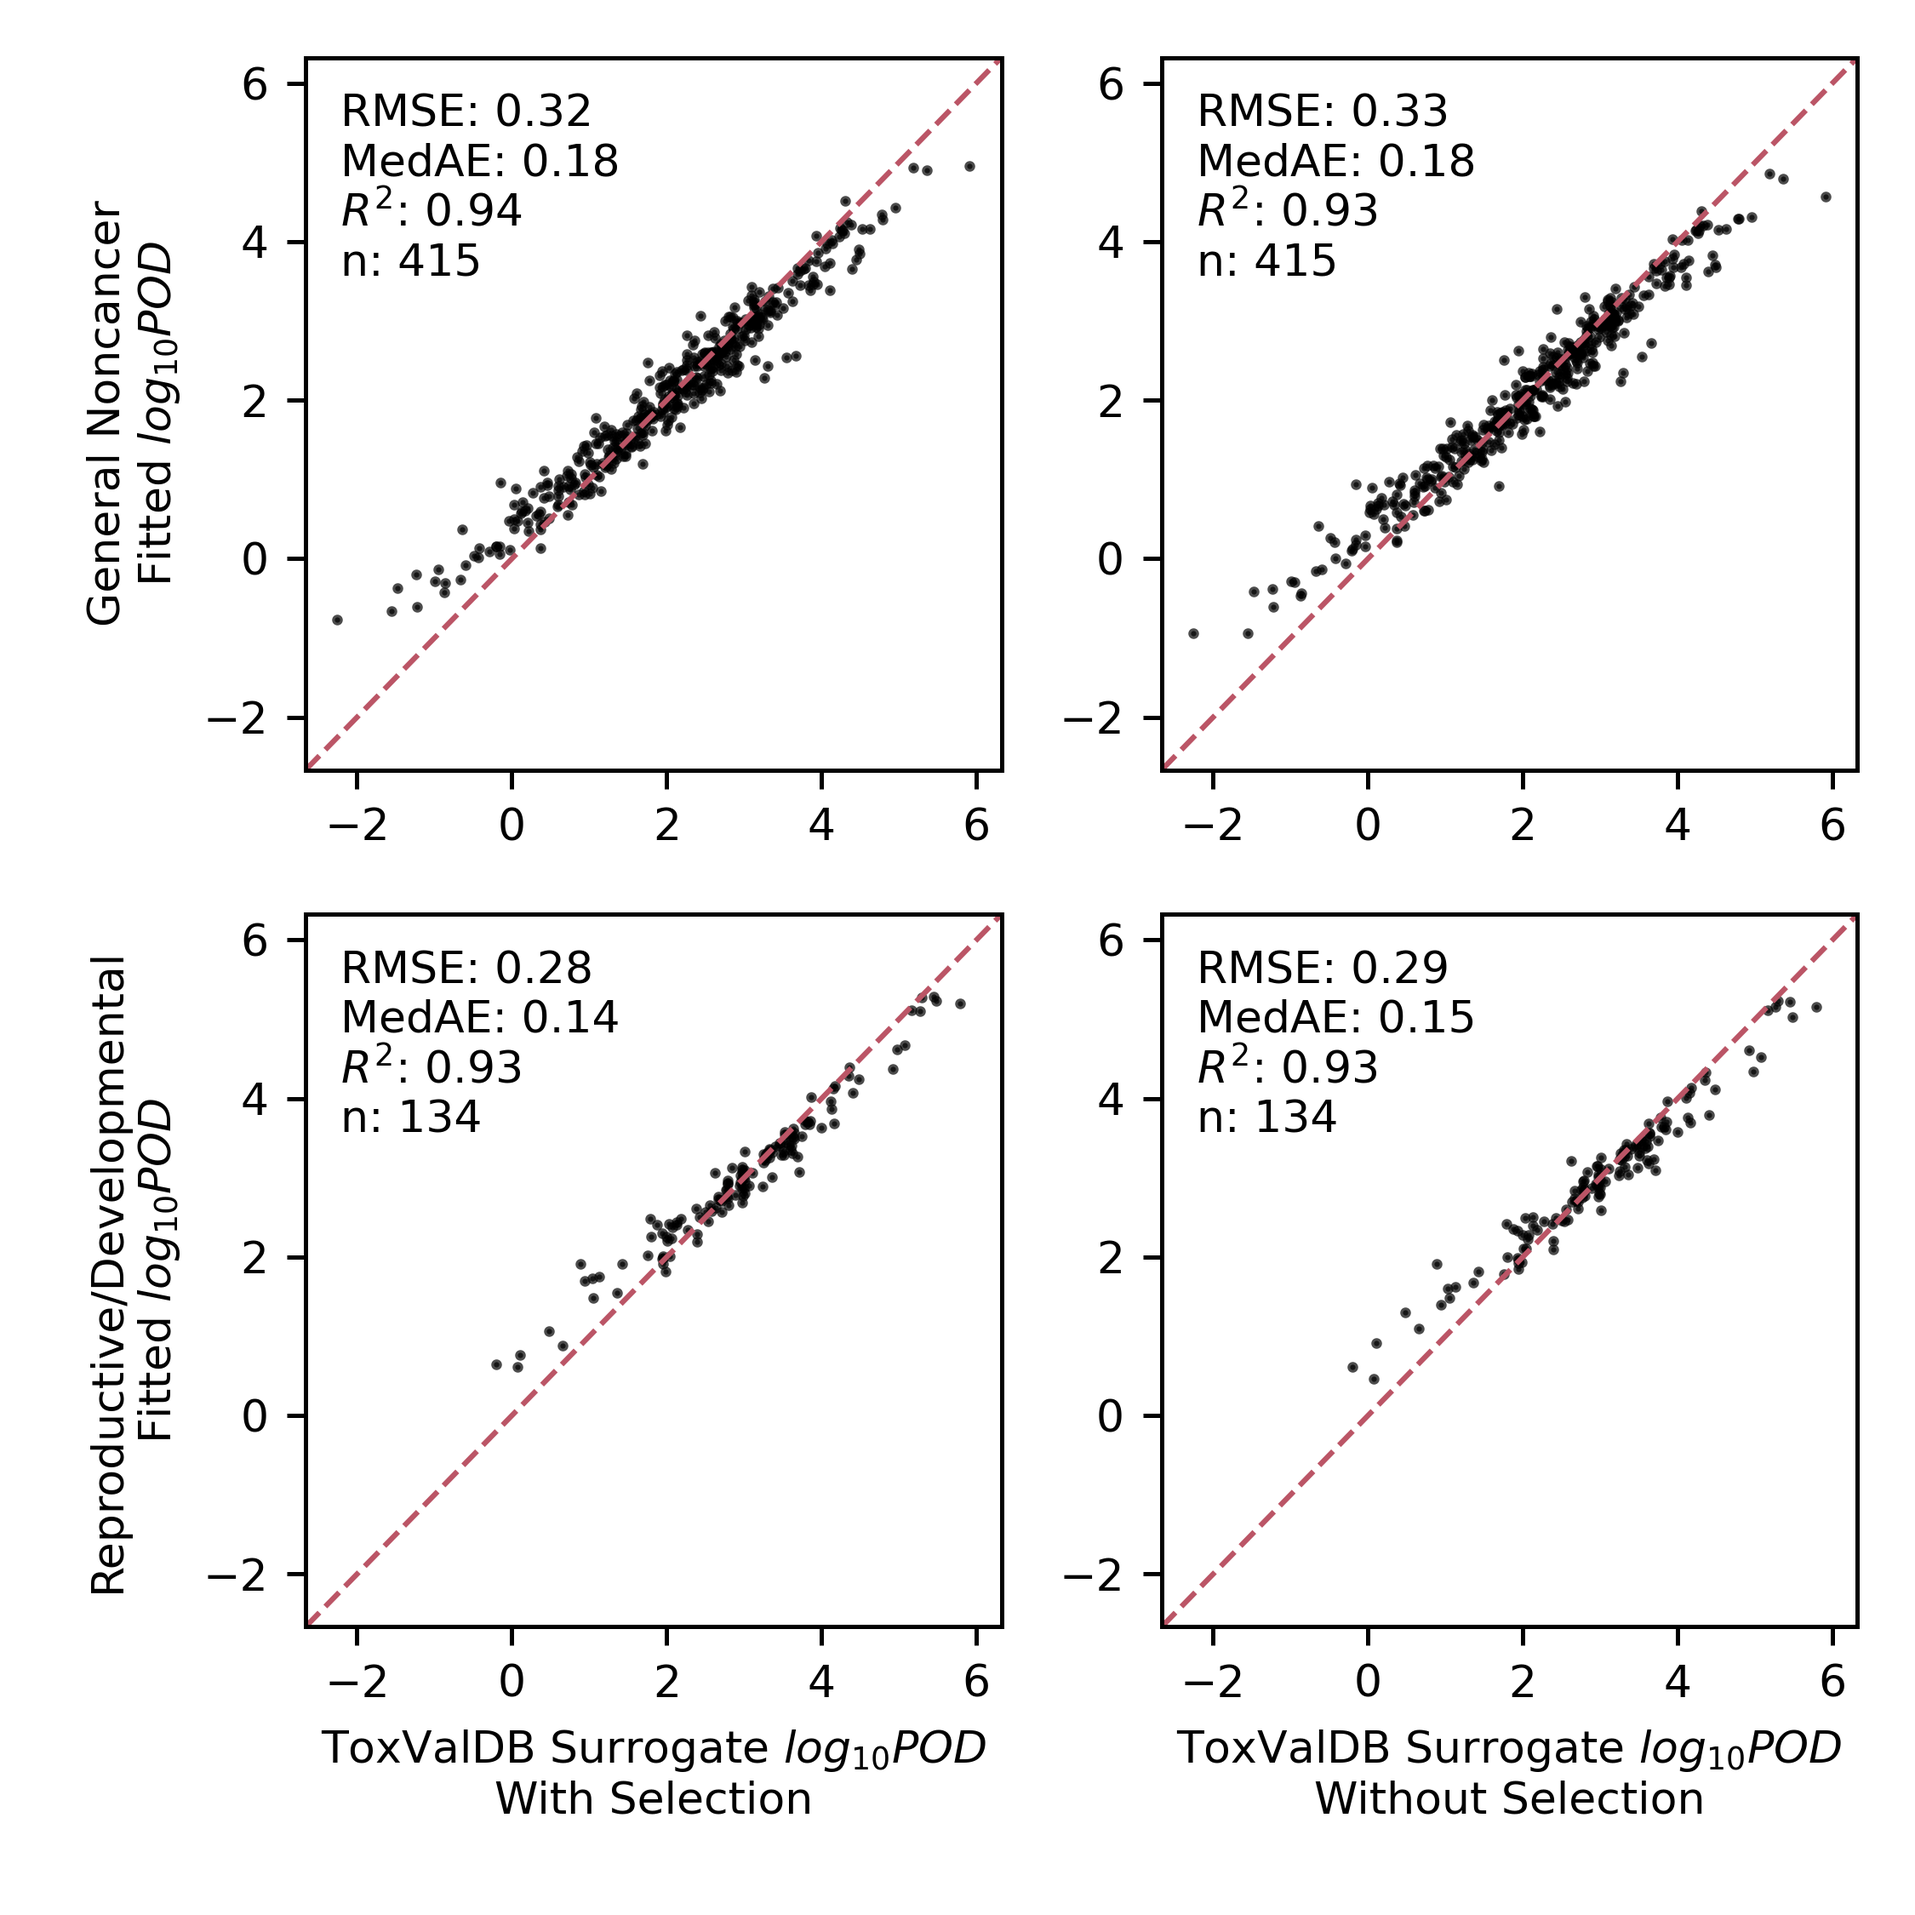
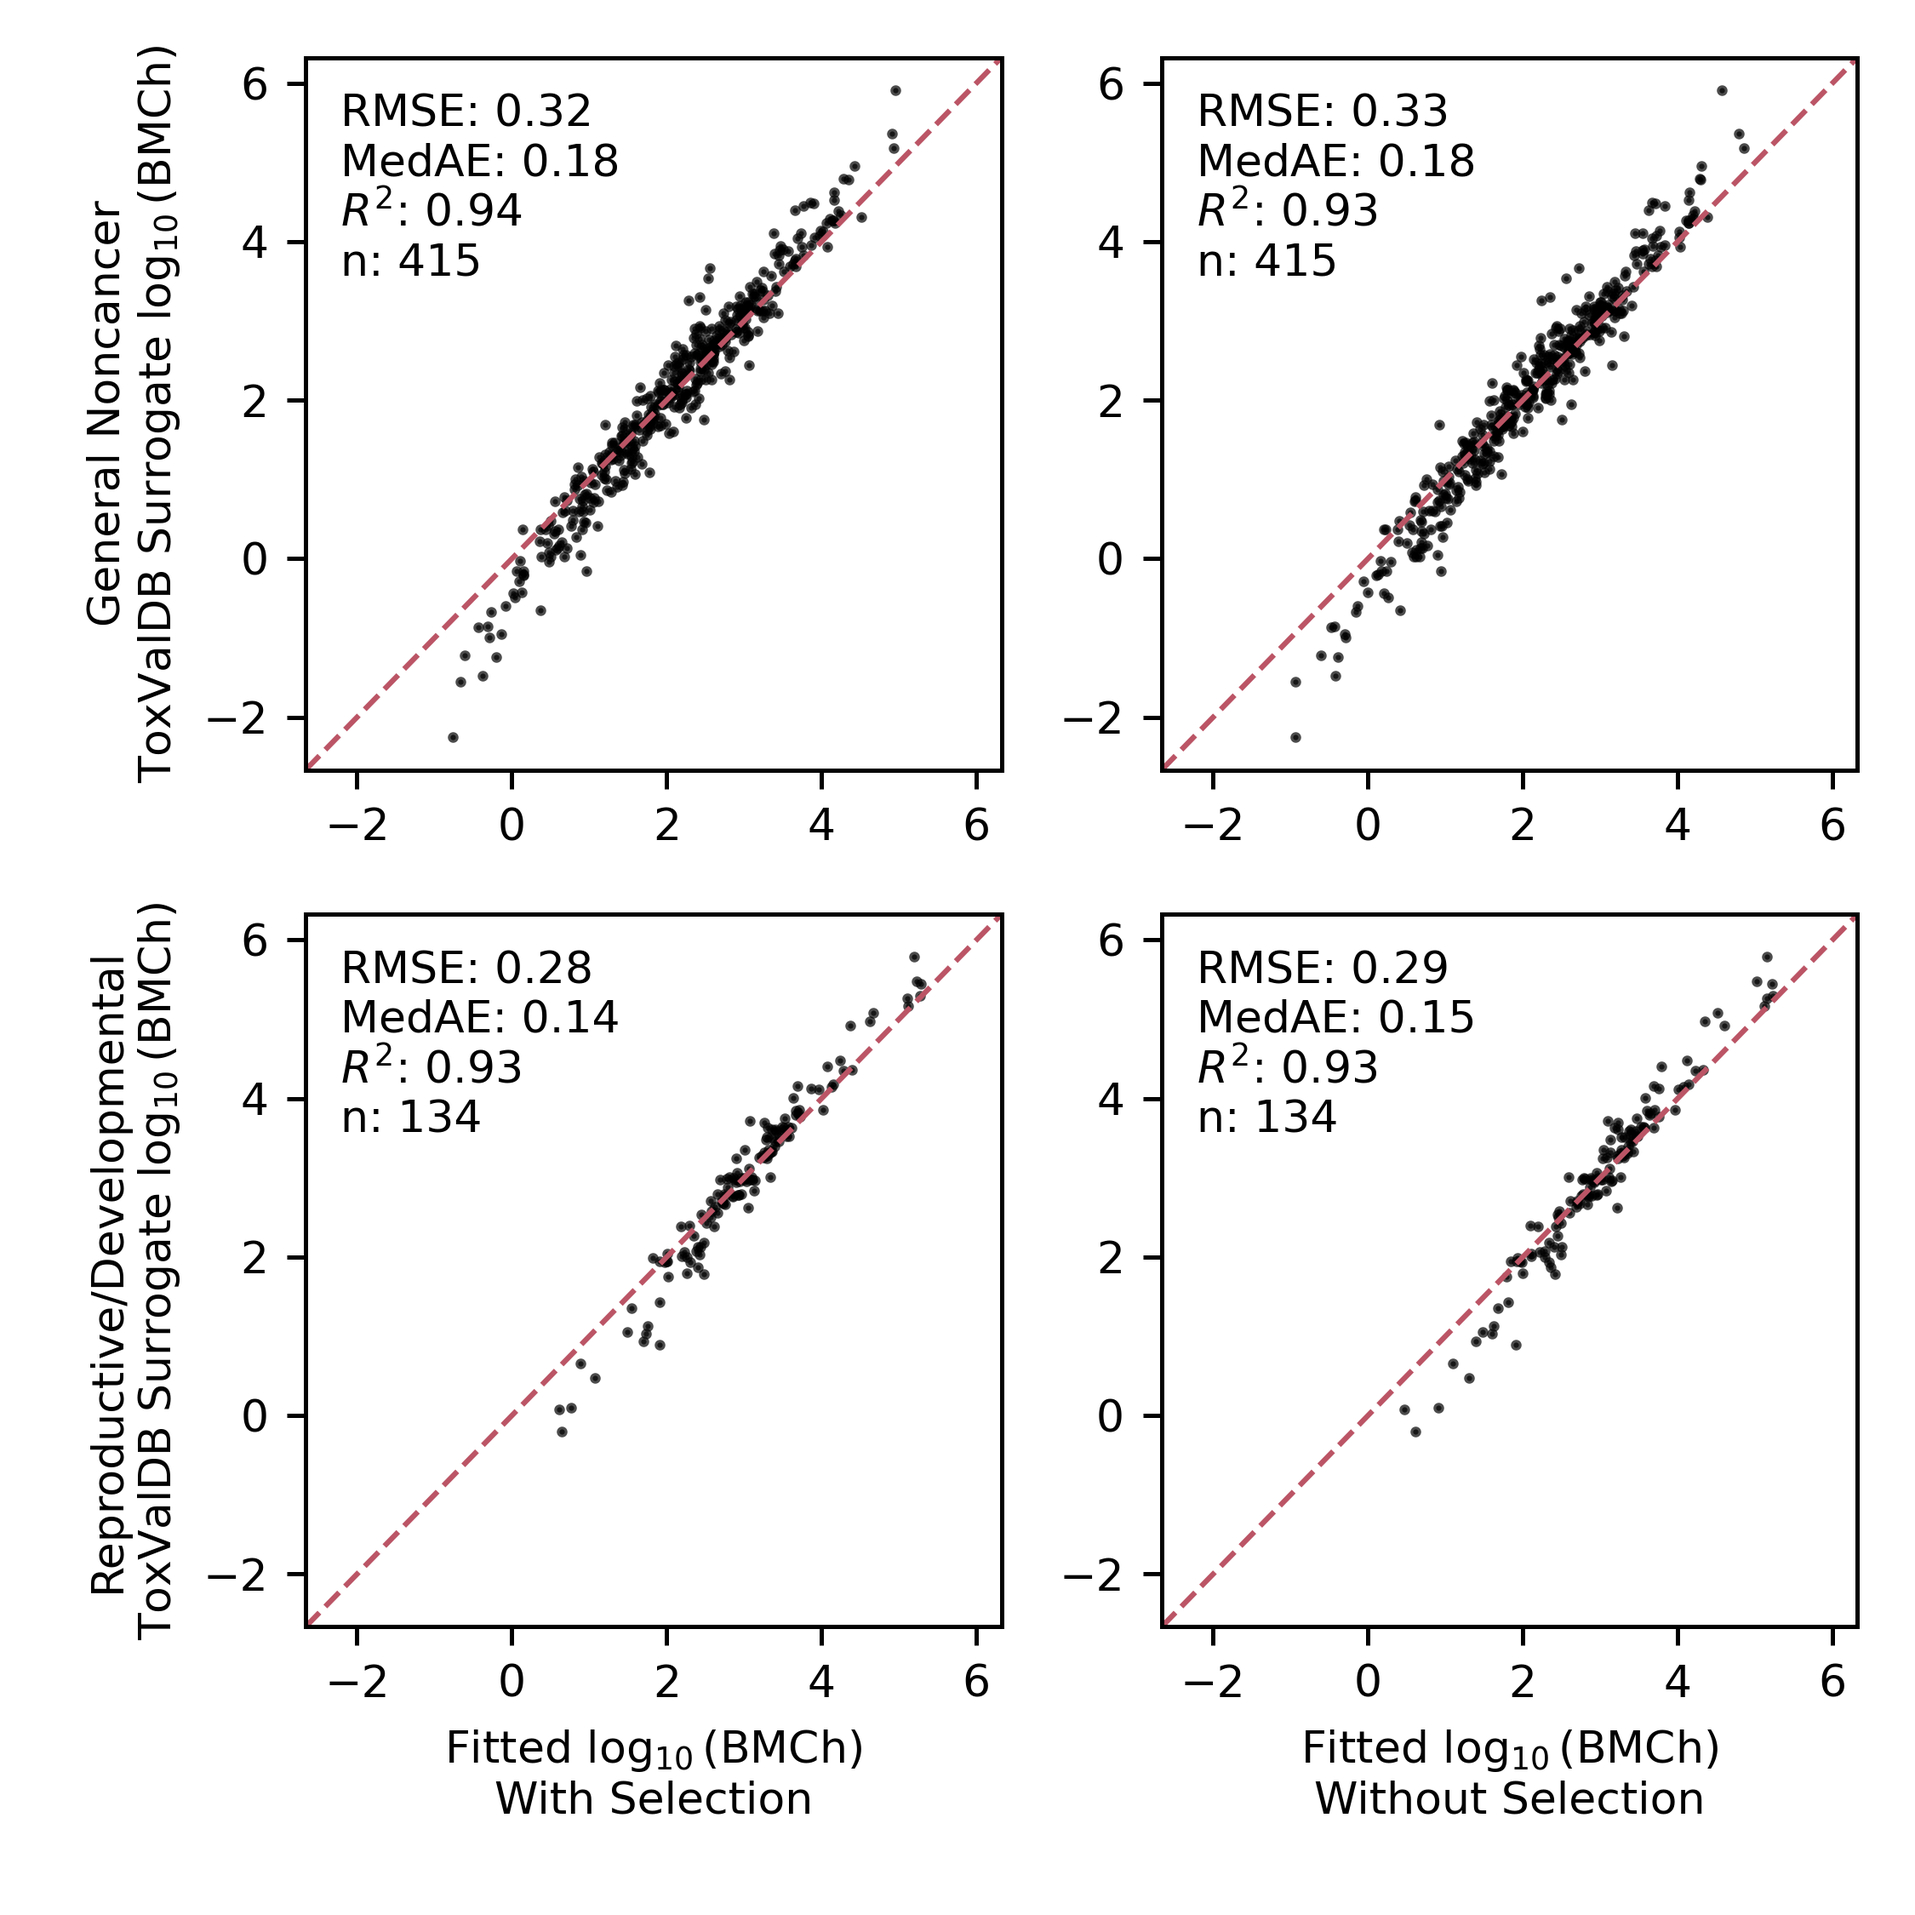
Update inhalation in-sample scatterplot axes and figure

diff --git a/plotting/model_performance.py b/plotting/model_performance.py
@@ -227,10 +227,11 @@ def _performance_scatterplots(
         result_function = 'get_in_sample_prediction'
         result_type = 'Fitted'       
 
-    prediction_on_x = not in_sample and getattr(
-        plot_settings, 'out_sample_prediction_on_x', False)
+    sample_type = 'in_sample' if in_sample else 'out_sample'
+    prediction_on_x = getattr(
+        plot_settings, f'{sample_type}_prediction_on_x', False)
     prediction_label = getattr(
-        plot_settings, 'out_sample_prediction_label',
+        plot_settings, f'{sample_type}_prediction_label',
         plot_settings.prediction_label) if prediction_on_x else (
             plot_settings.prediction_label)
 
